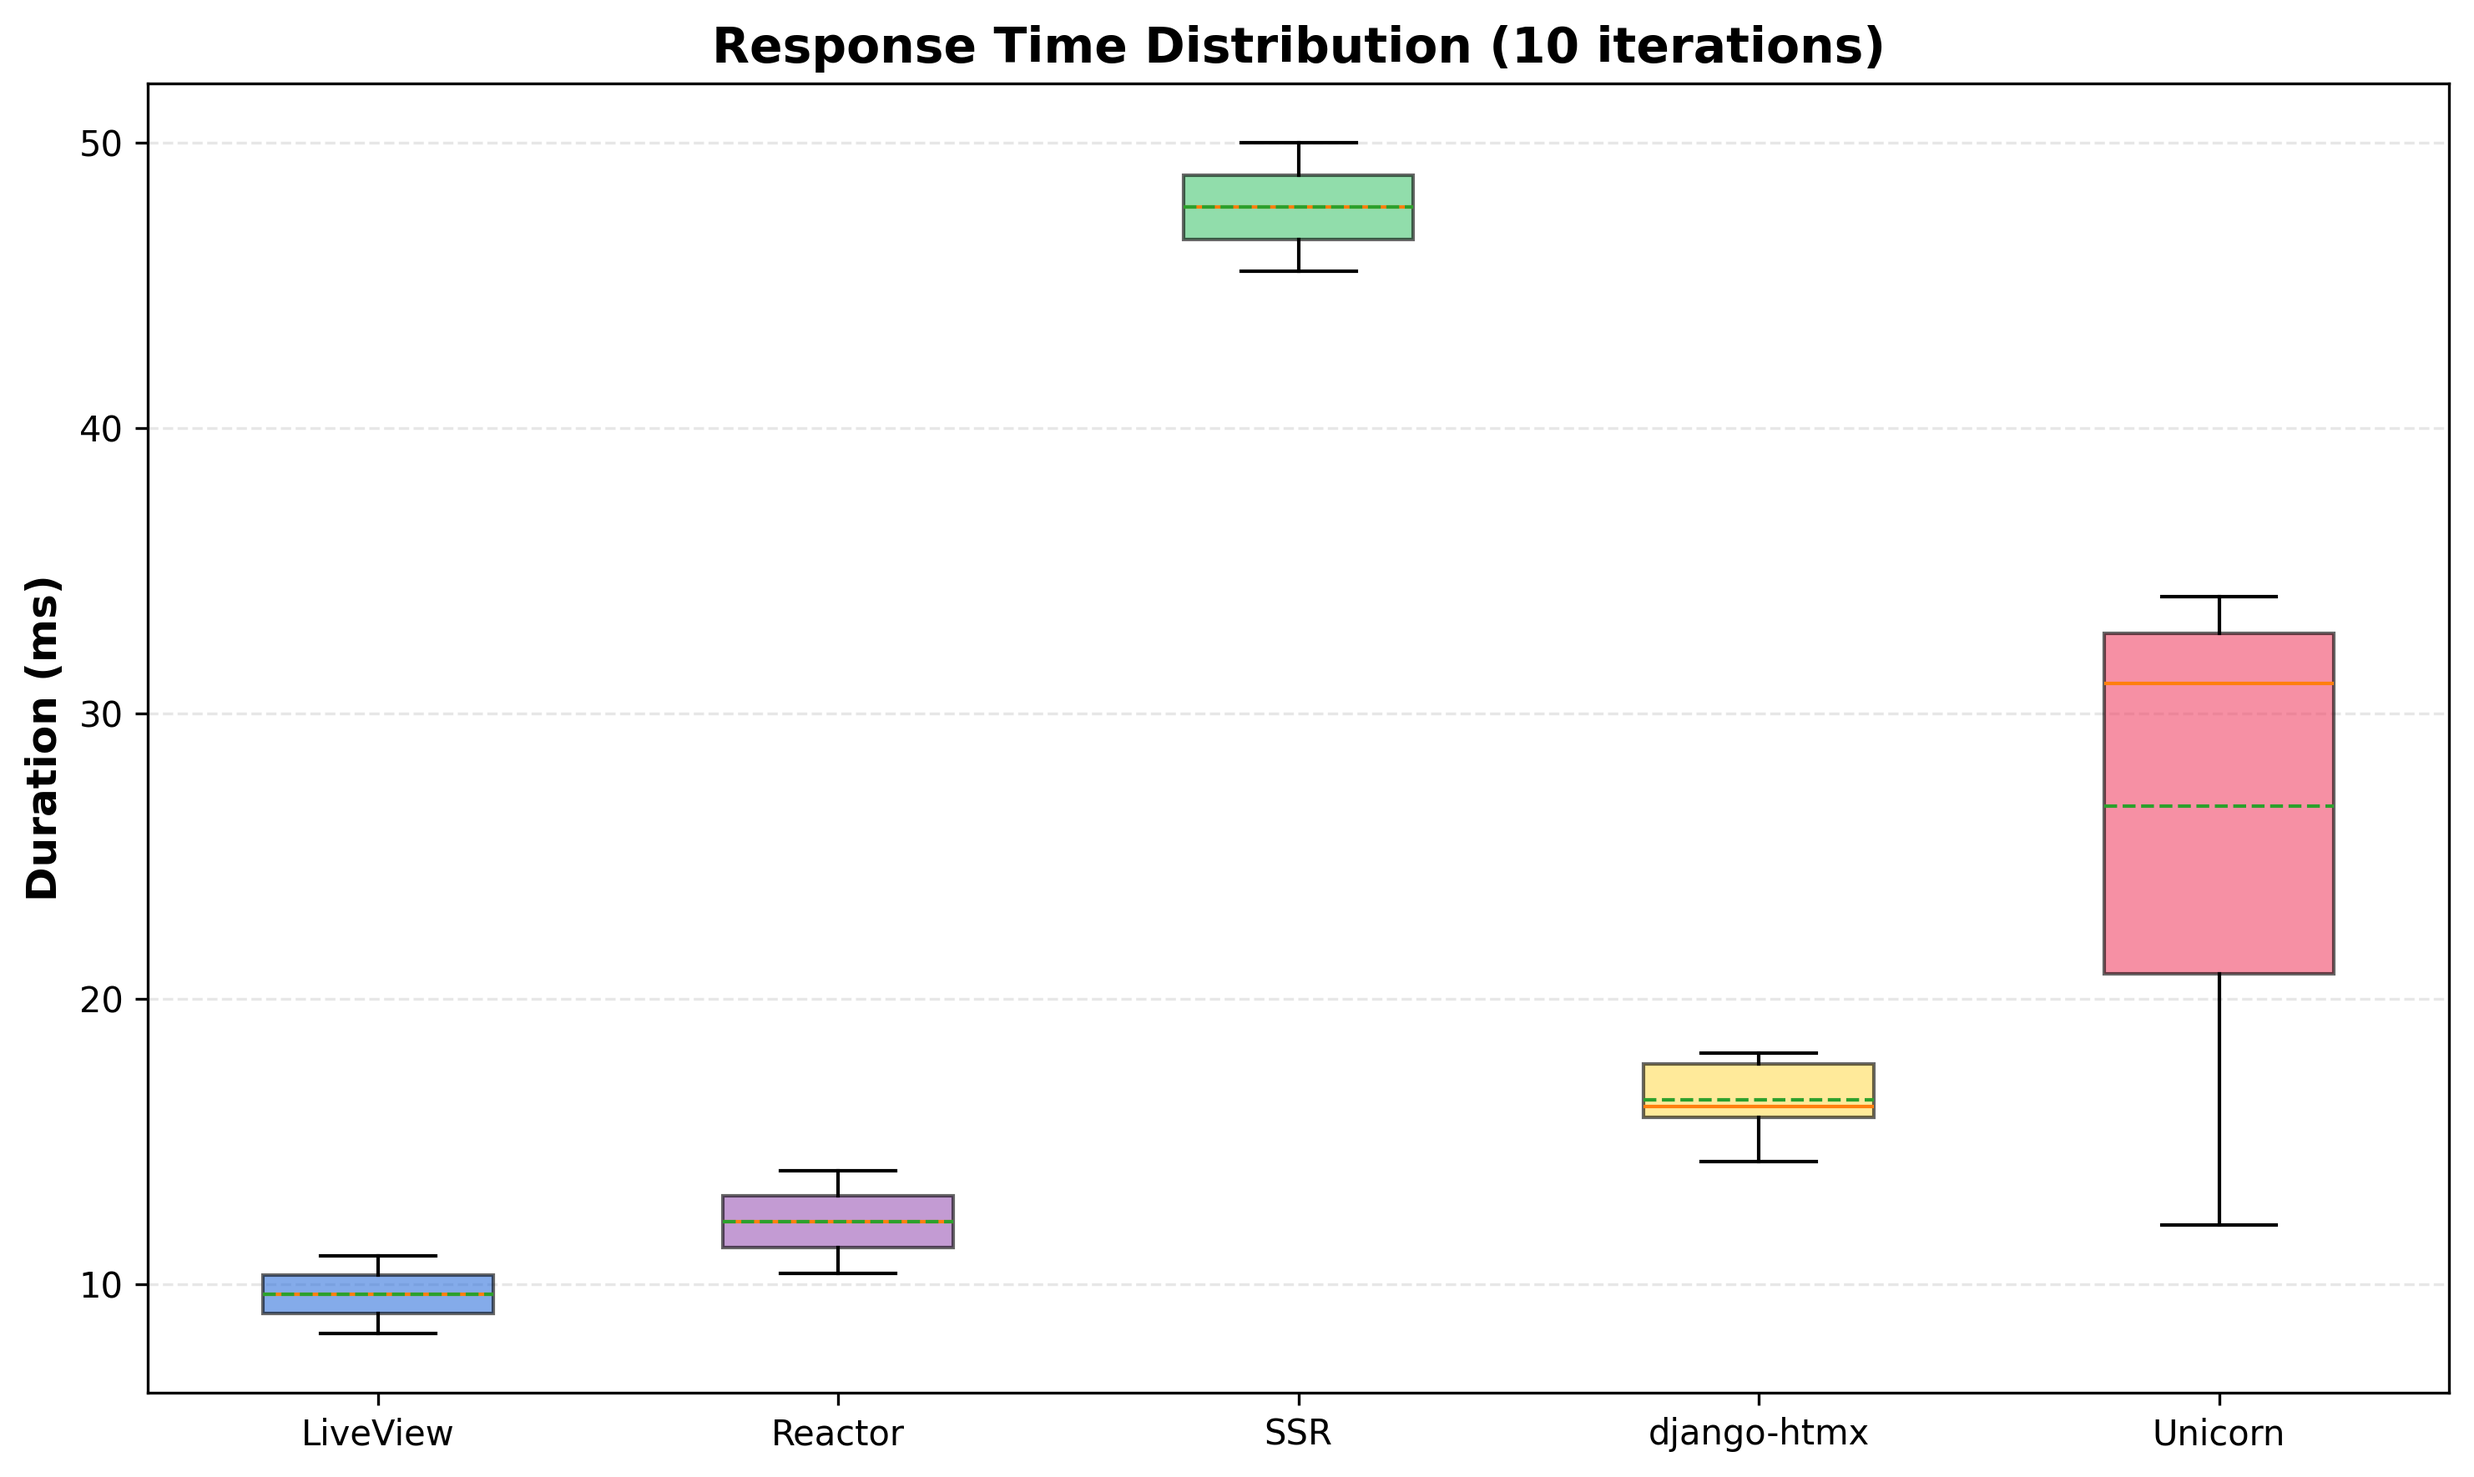
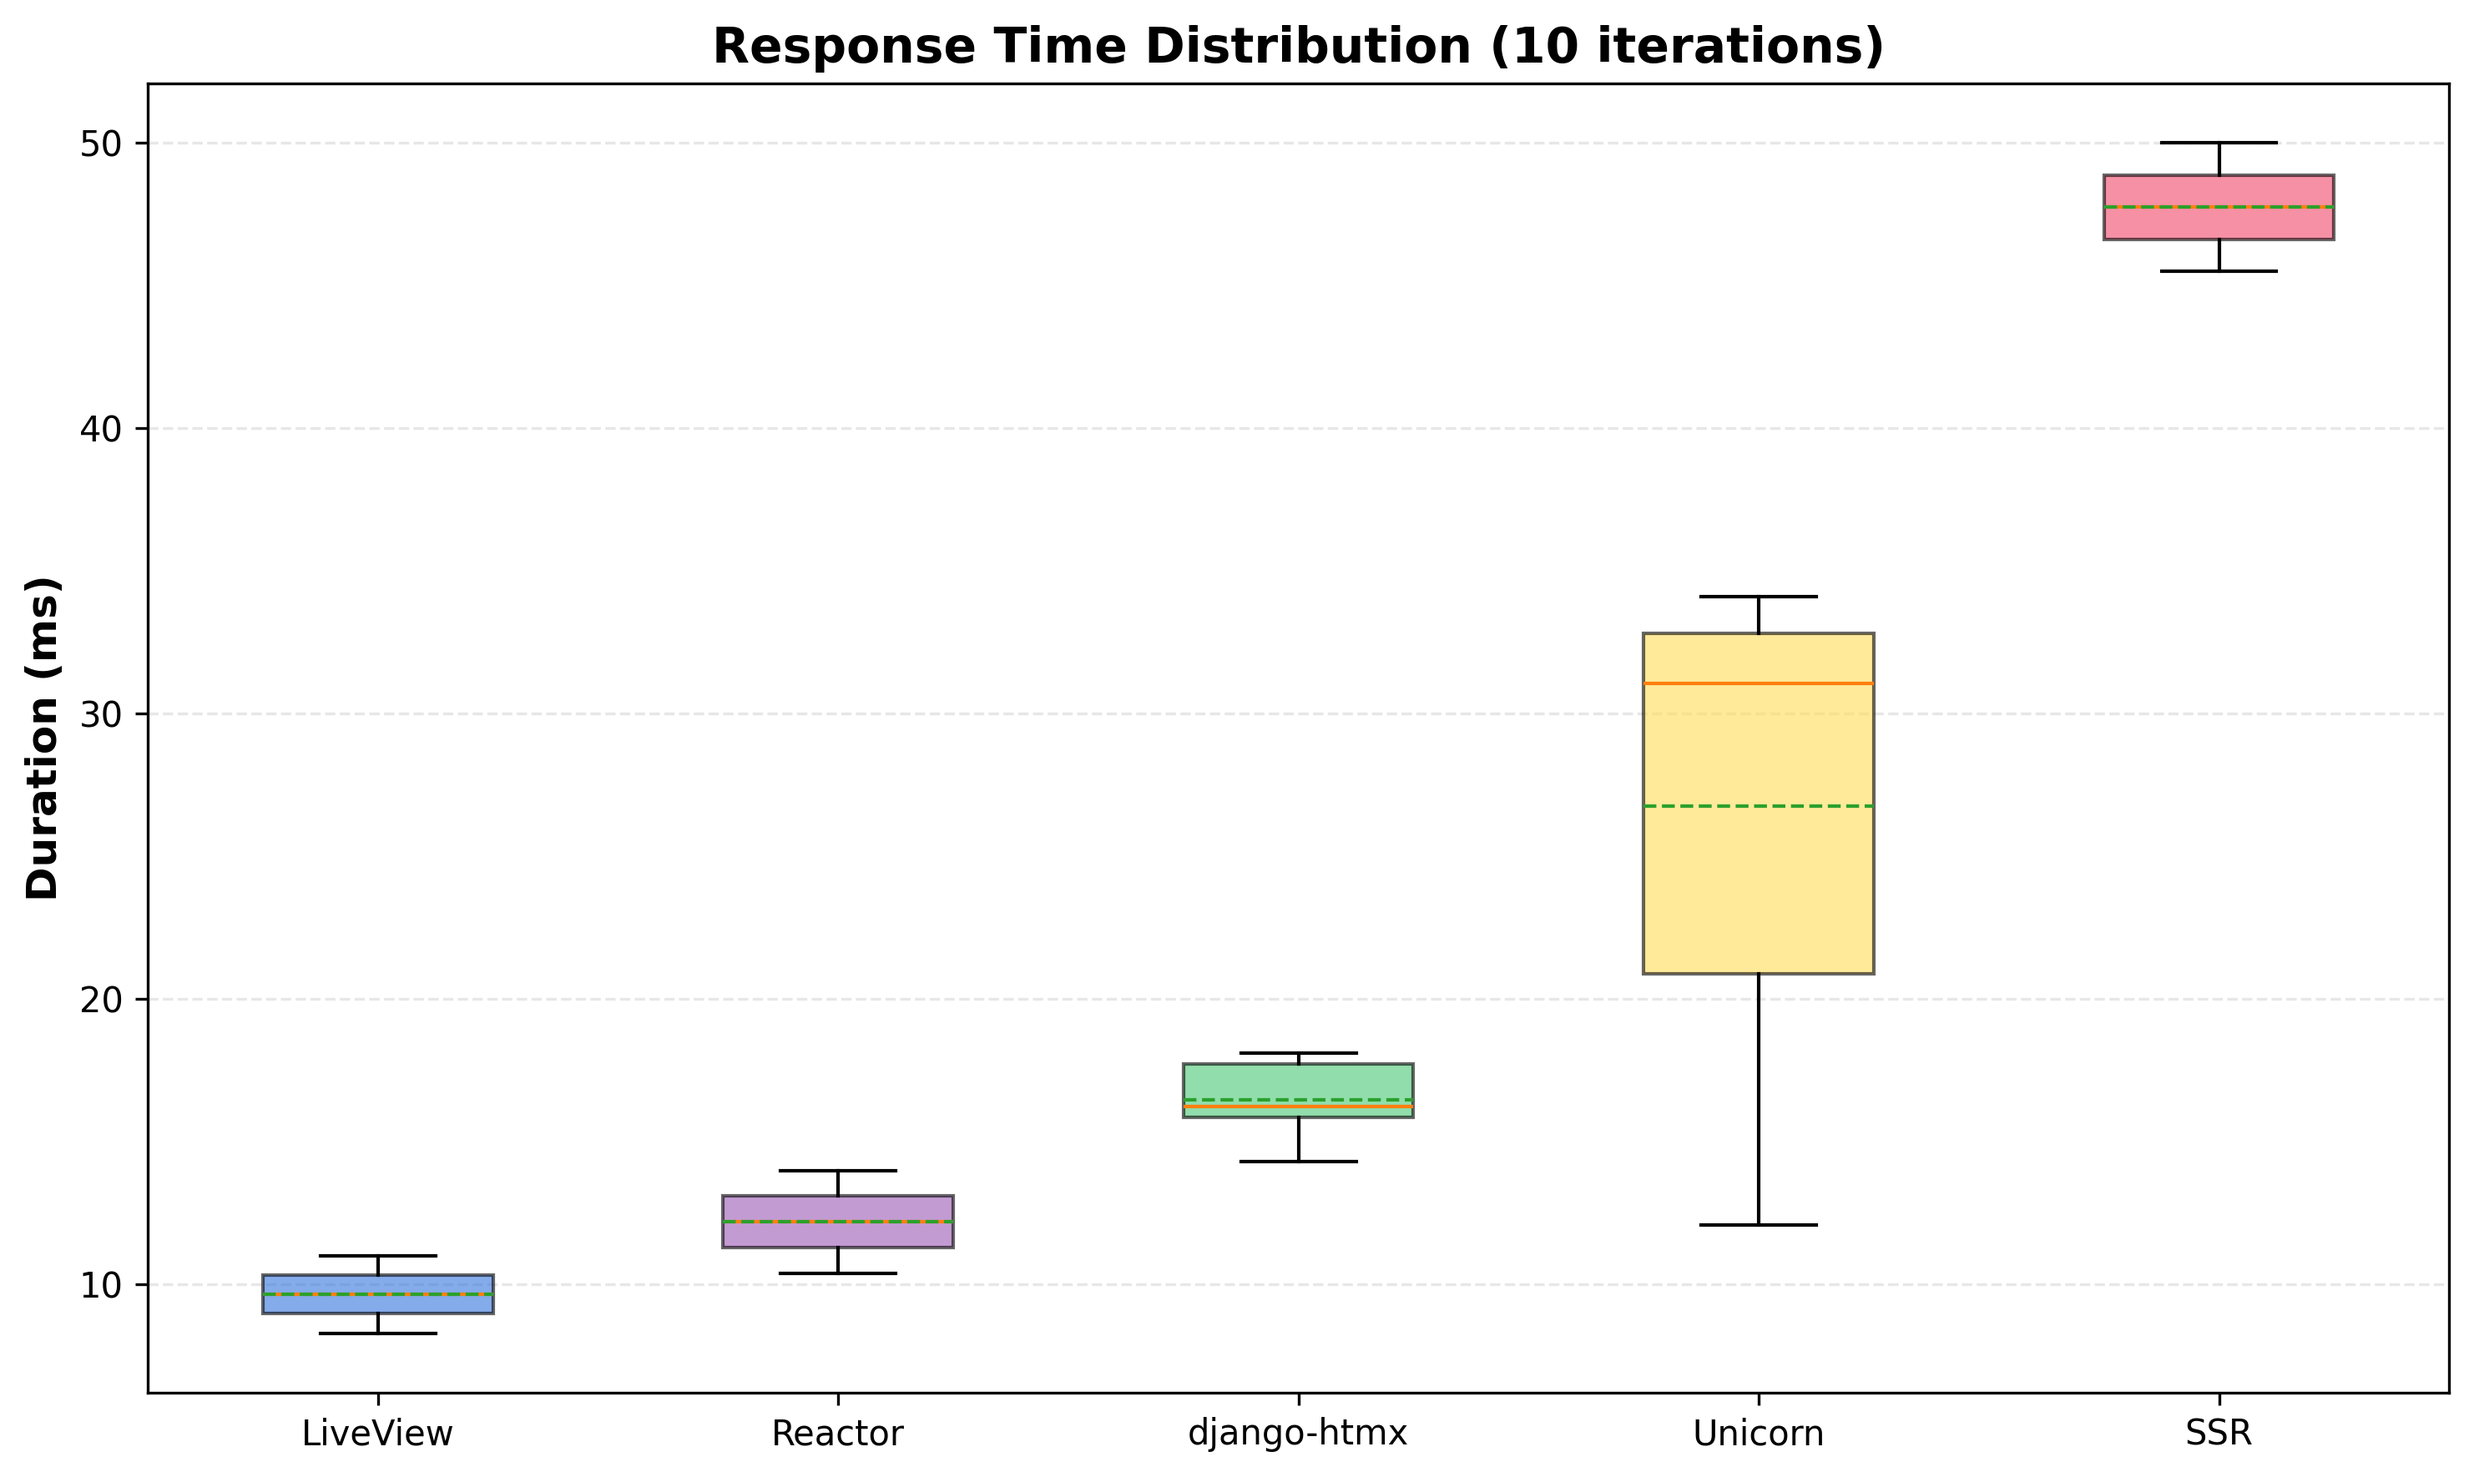
Reorder plots by performance (fastest to slowest)
- Add sort_by_performance() function to sort implementations by average duration
- Update all plots to display frameworks from fastest to slowest
- Order: LiveView (9.35ms) → Reactor (12.00ms) → django-htmx (16.48ms) → Unicorn (26.76ms) → SSR (47.25ms)
- Regenerate all 9 performance plots with sorted order

diff --git a/generate_performance_plots.py b/generate_performance_plots.py
@@ -49,6 +49,13 @@ def load_latest_csv():
 
 	return data, latest_csv
 
+def sort_by_performance(data):
+	"""Sort implementations by average duration (fastest to slowest)"""
+	averages = {impl: np.mean([m['duration_ms'] for m in measurements])
+	            for impl, measurements in data.items()}
+	sorted_impls = sorted(averages.keys(), key=lambda x: averages[x])
+	return {impl: data[impl] for impl in sorted_impls}
+
 def plot_average_duration(data, output_file='plot_avg_duration.png'):
 	"""Bar chart comparing average duration across implementations"""
 	implementations = list(data.keys())
@@ -310,6 +317,10 @@ def main():
 	try:
 		data, csv_file = load_latest_csv()
 		print(f"\nData loaded: {sum(len(v) for v in data.values())} measurements")
+
+		# Sort implementations by performance (fastest to slowest)
+		data = sort_by_performance(data)
+		print(f"Sorted order (fastest to slowest): {', '.join(data.keys())}")
 
 		print("\nGenerating plots...")
 		plot_average_duration(data)
